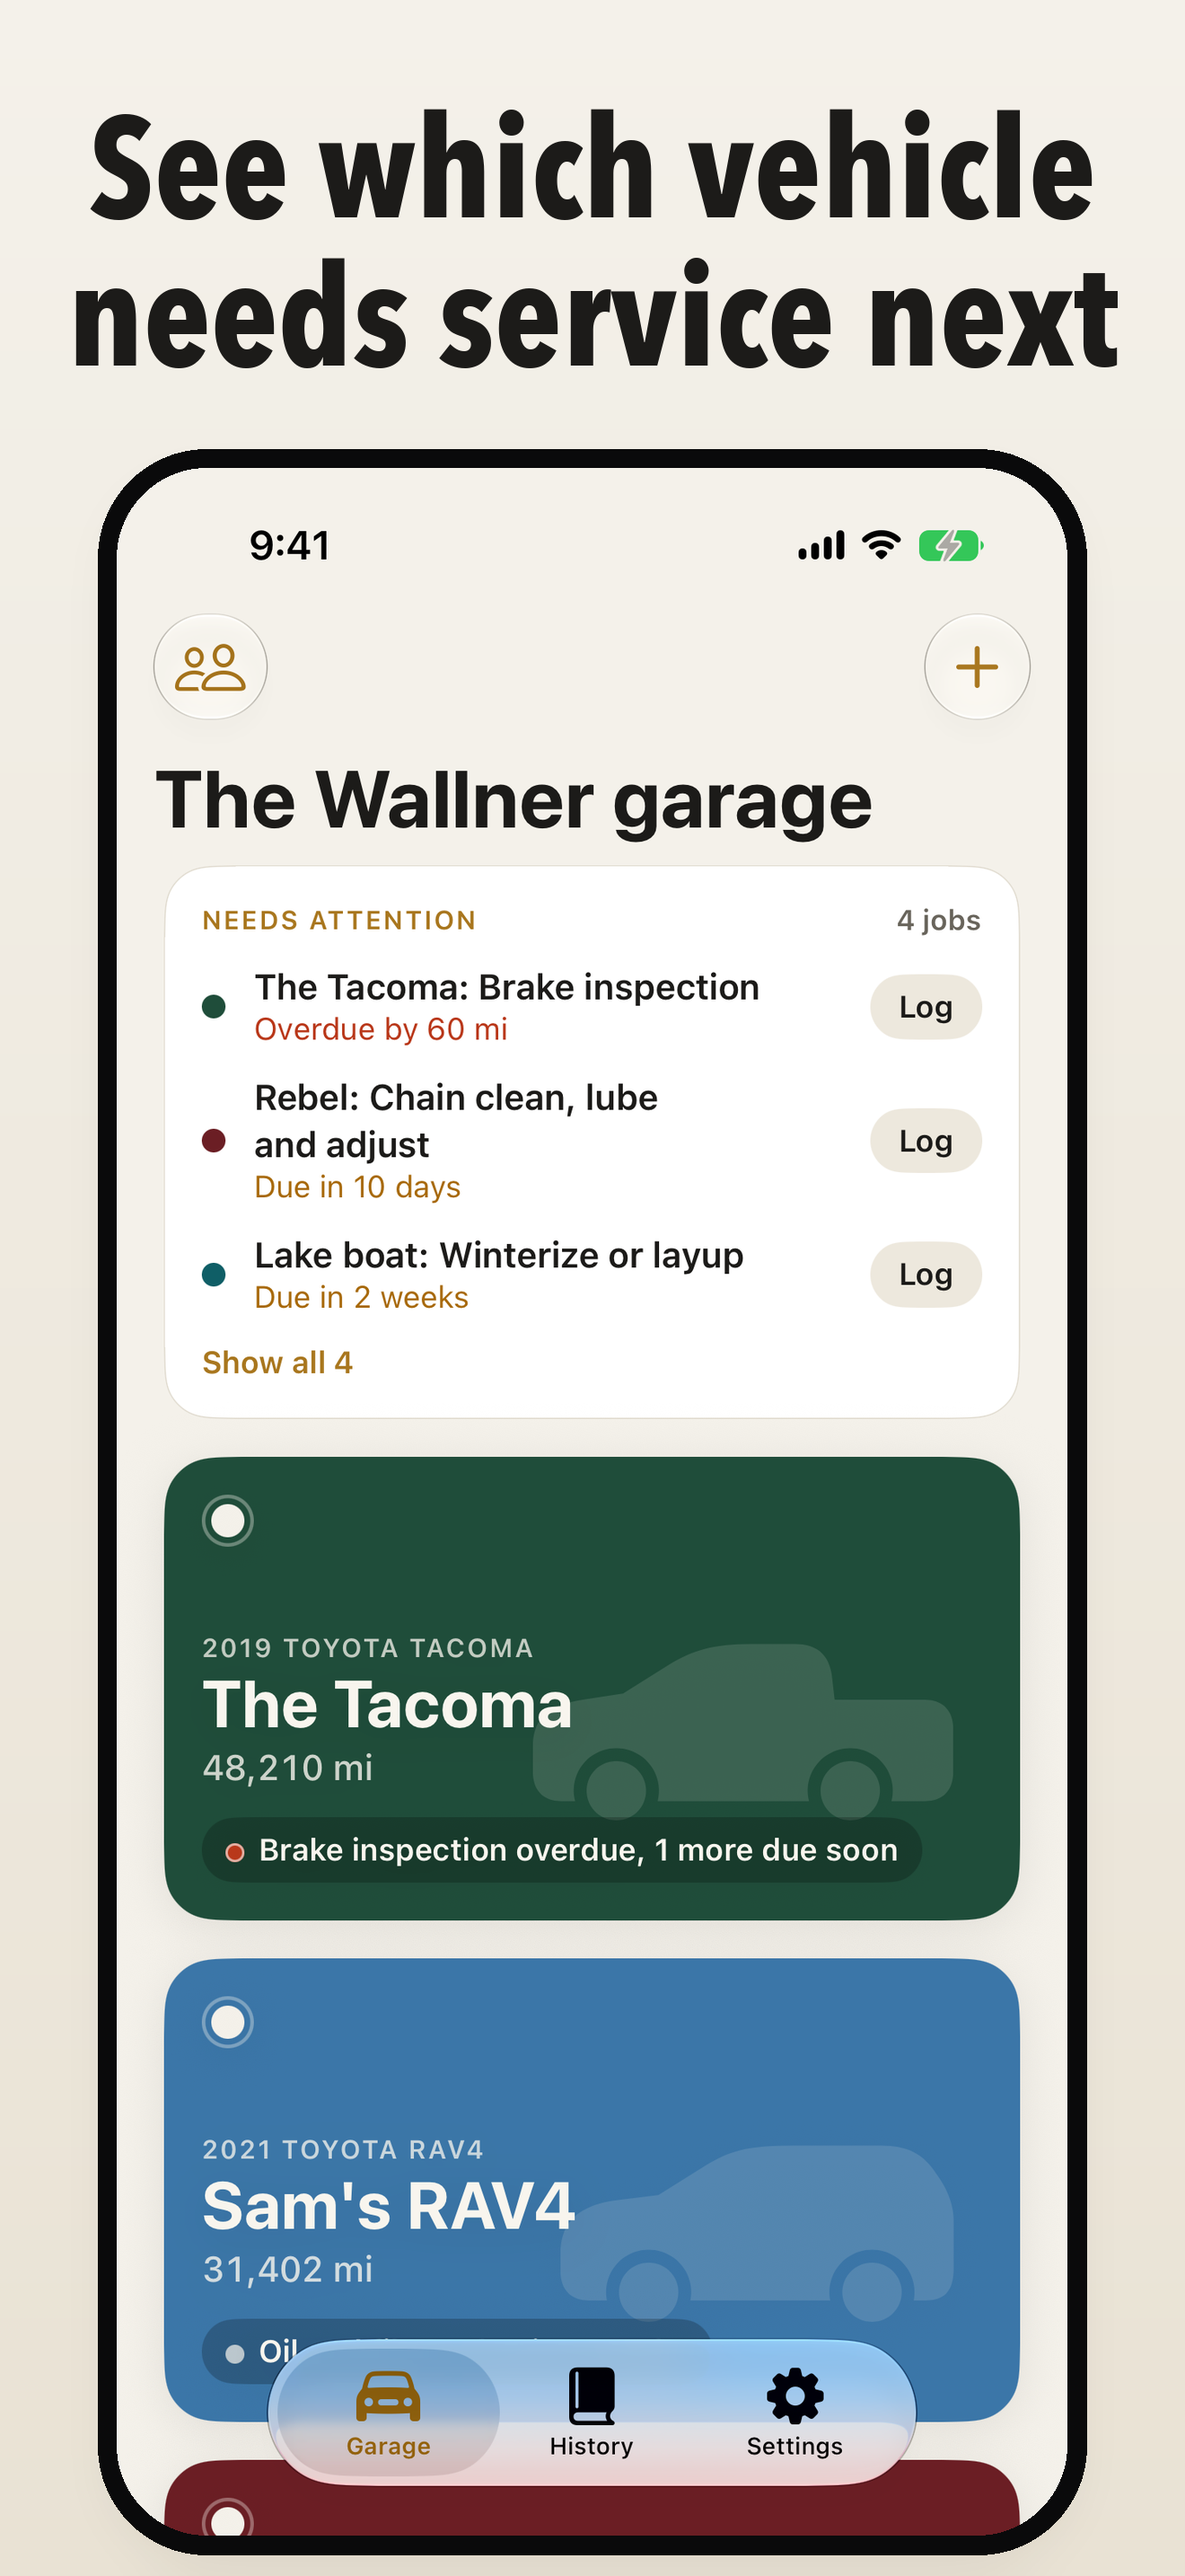
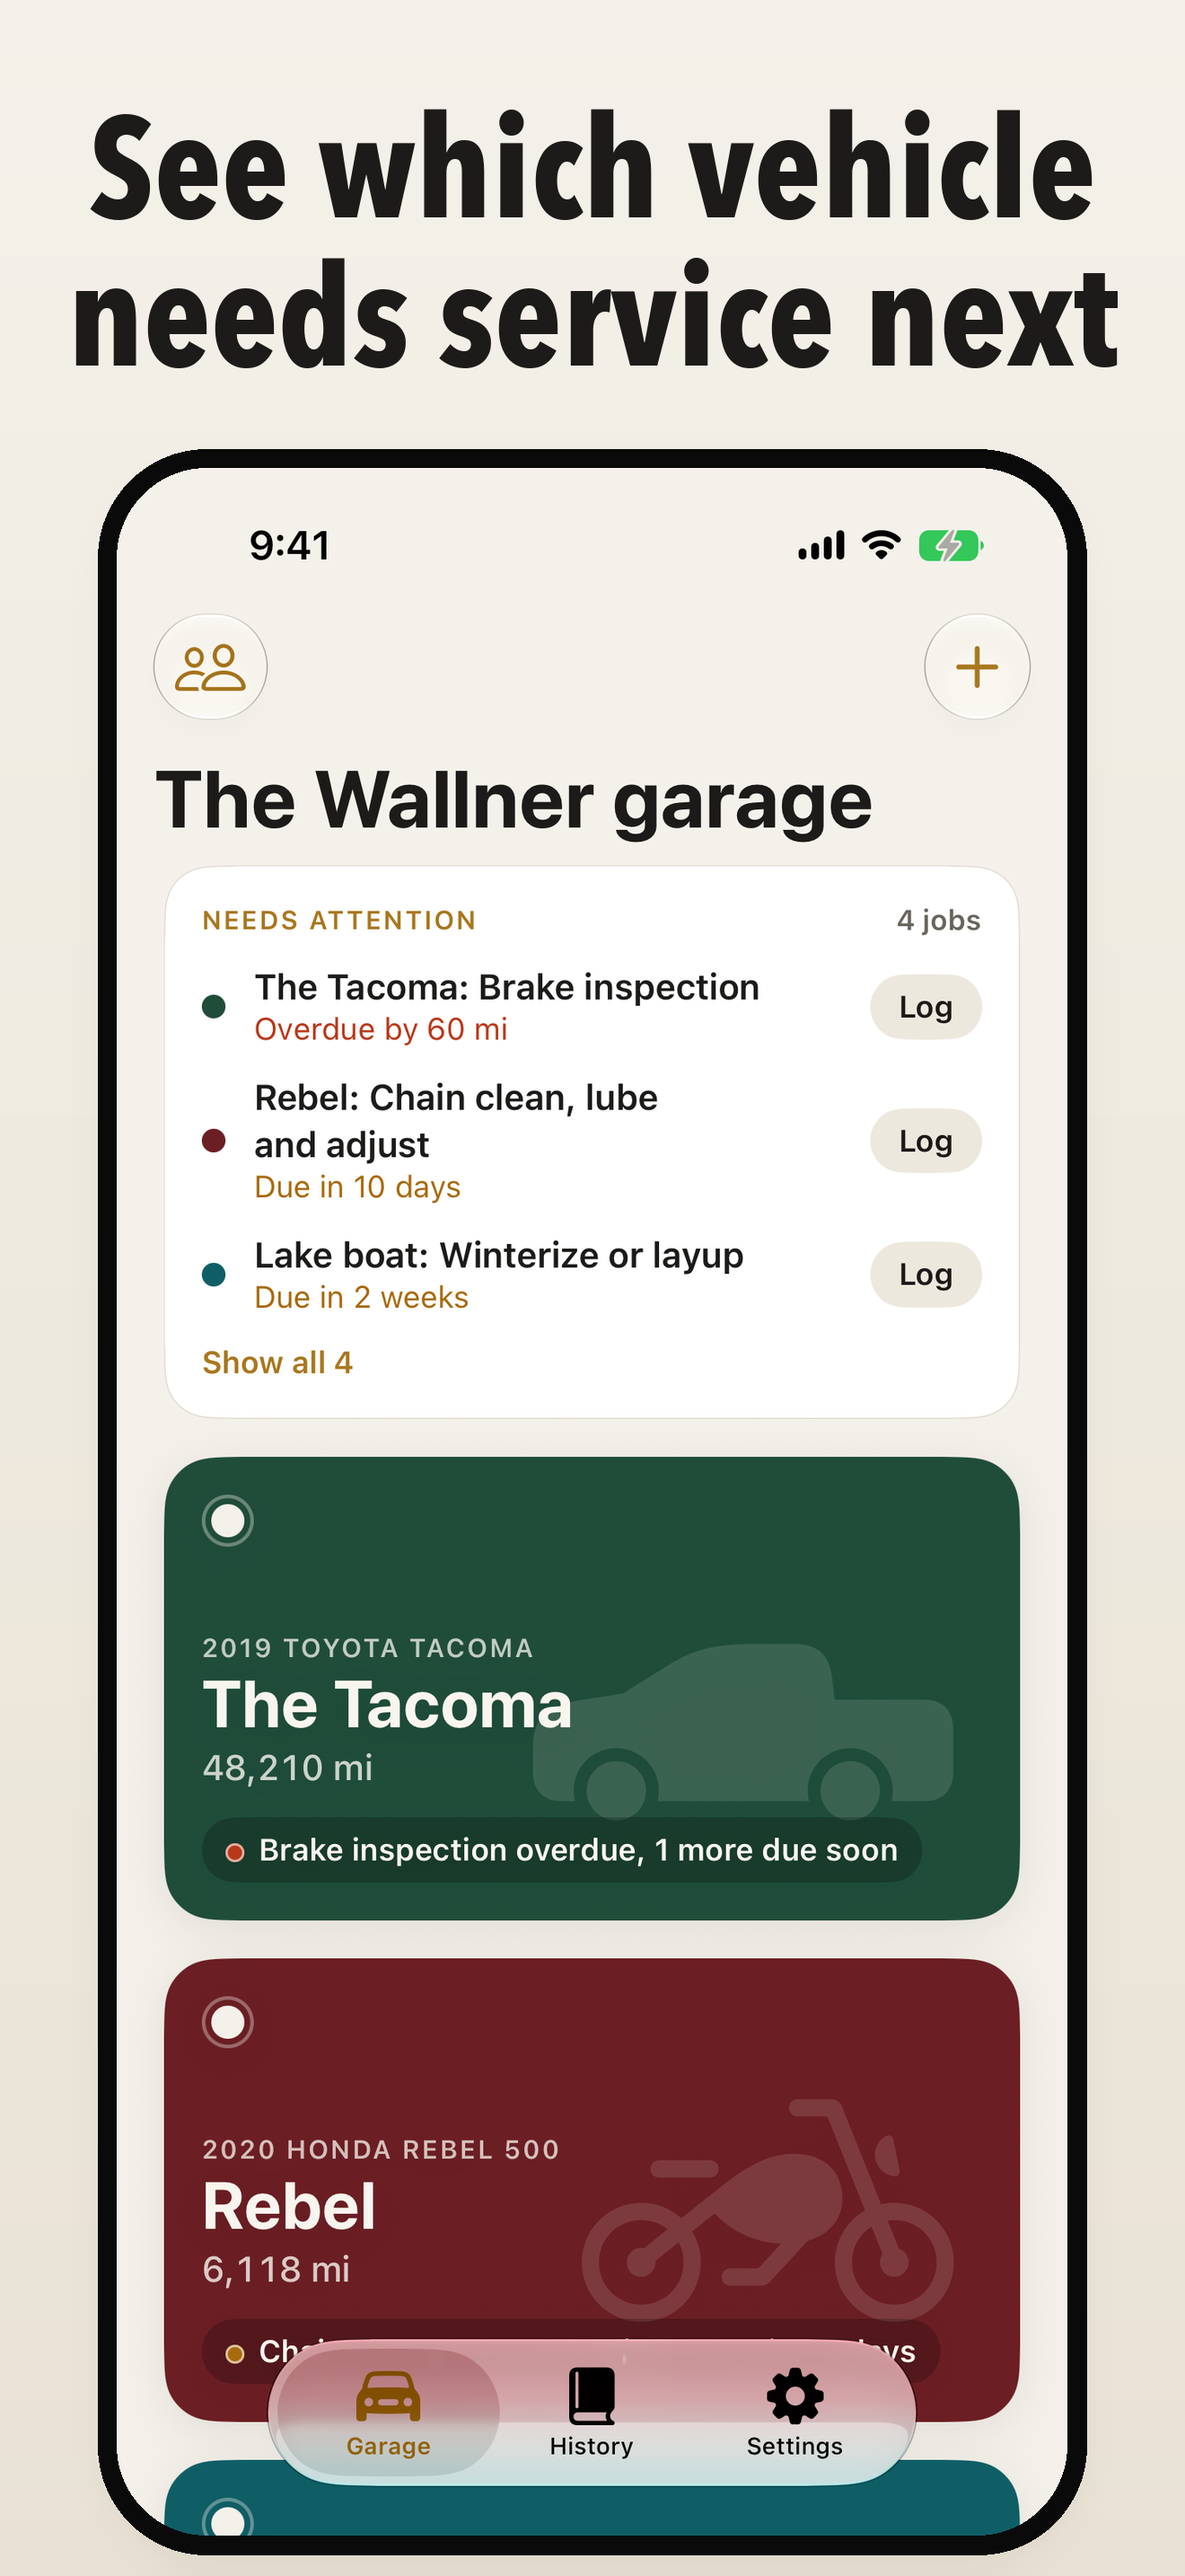
chore: 1.0 screenshots for iPhone and Duo, uploaded through asc-sync

Changed region(s): [[0.1242, 0.7448, 0.8697, 0.993]]

diff --git a/.claude/rules/release.md b/.claude/rules/release.md
@@ -1,0 +1,27 @@
+---
+paths:
+  - "fastlane/**"
+  - "scripts/testflight.sh"
+  - "project.yml"
+---
+# Release and App Store screenshots
+
+## Screenshots
+- Two sets in `fastlane/screenshots/en-US/`: iPhone 6.9 inch (1320x2868, `01-*.png`) and iPhone Duo outer
+  display (1398x2034, `duo_01-*.png`). The uploader picks the ASC display type from the pixel size.
+- Manifests: `~/ios/appstore-screenshots/configs/keyring.json` (slot 1, iPhone 17 Pro) and `keyring-duo.json`
+  (`store_slot` 11, iPhone Duo, `screenshot_display` "LCD", the outer screen; "LCD-1" is the folded inner panel and
+  is blank). Capture with `./bin/shotflow capture <manifest> --output <dir>`, inspect every raw PNG, copy them into
+  `samples/keyring/capture-proof[-duo]/`, then `./bin/shotflow all <manifest> --output <dir>`.
+- Screenshot routes: `-ScreenshotRoute pace|recalls|record|build|family|history` plus `-RecordZoom 1.12` for a
+  readable Service Record. `-SeedDemo` leads the garage with a truck, a motorcycle and a boat.
+- Upload: `ASC_APP_VERSION=1.0 fastlane ios upload_screenshots` (wraps `asc-sync-screenshots`; never deliver's
+  `overwrite_screenshots`, which duplicated sets elsewhere in the fleet).
+- ASC refuses screenshot deletes while the version is an item in a review submission draft (409 "Can't Delete
+  Screenshot while Ready For Review"). Remove the version's `reviewSubmissionItem` from the draft, sync, then
+  POST it back; the IAP items stay in the draft throughout. Done this way for 1.0 on 2026-10-19.
+
+## Submission
+- `~/ios/release/release.py check --app 6823808045 --version <v>` is the readiness gate. For 1.0 the only flag is
+  2.1(b): the first IAPs ride with the version, which is expected.
+- Privacy labels and the physical-device screen recording for review notes need Jack's ASC web session.
